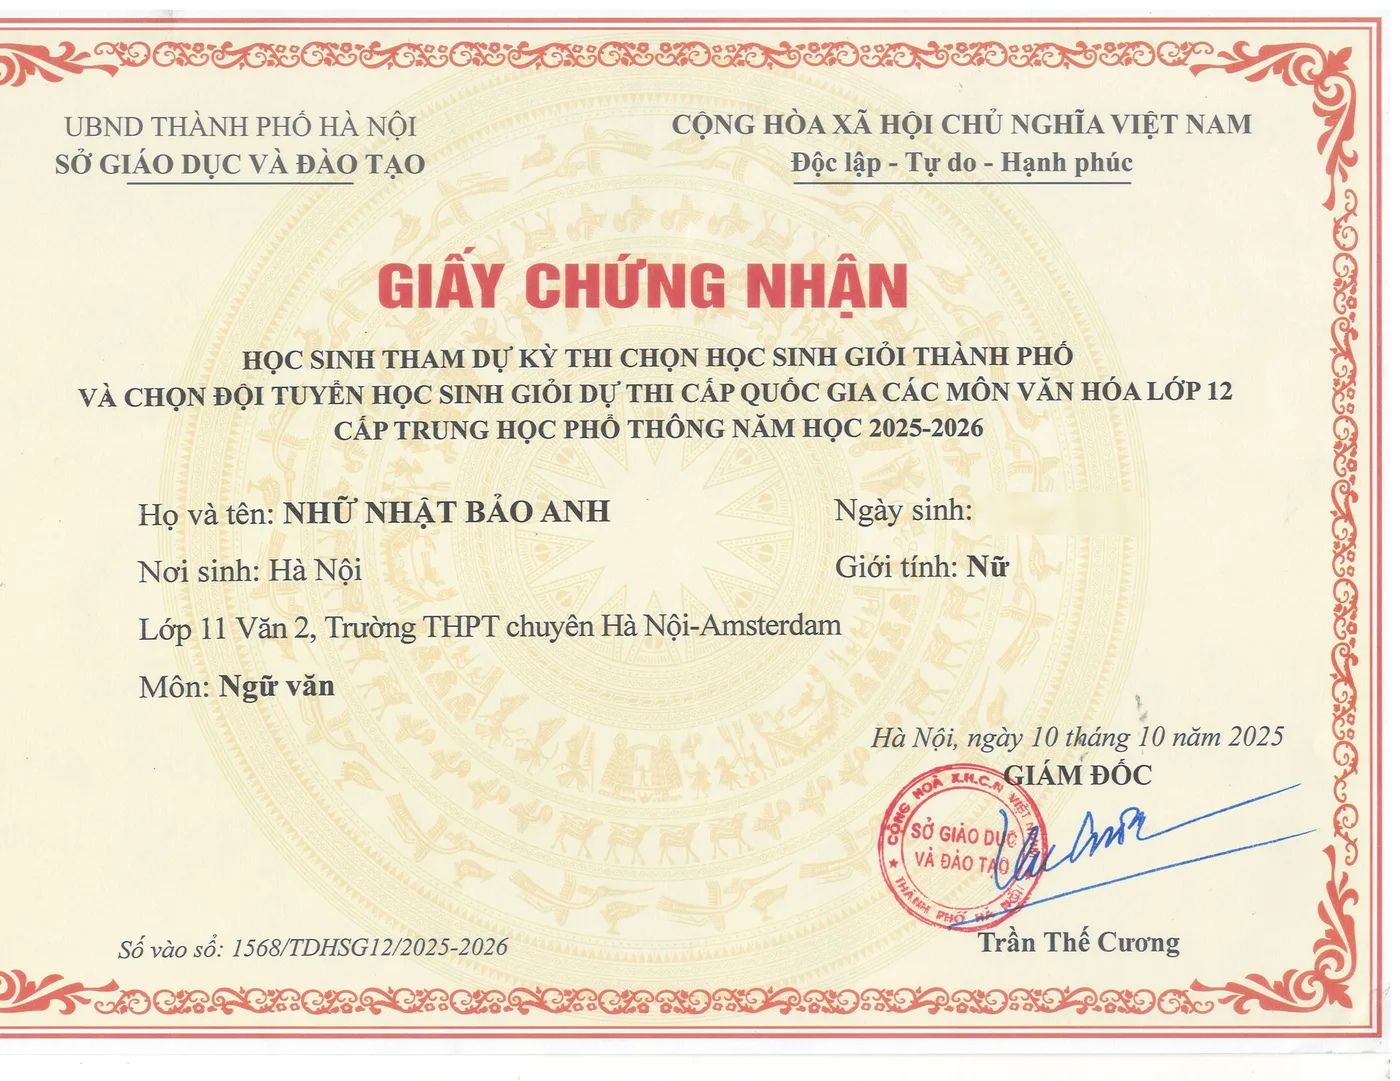
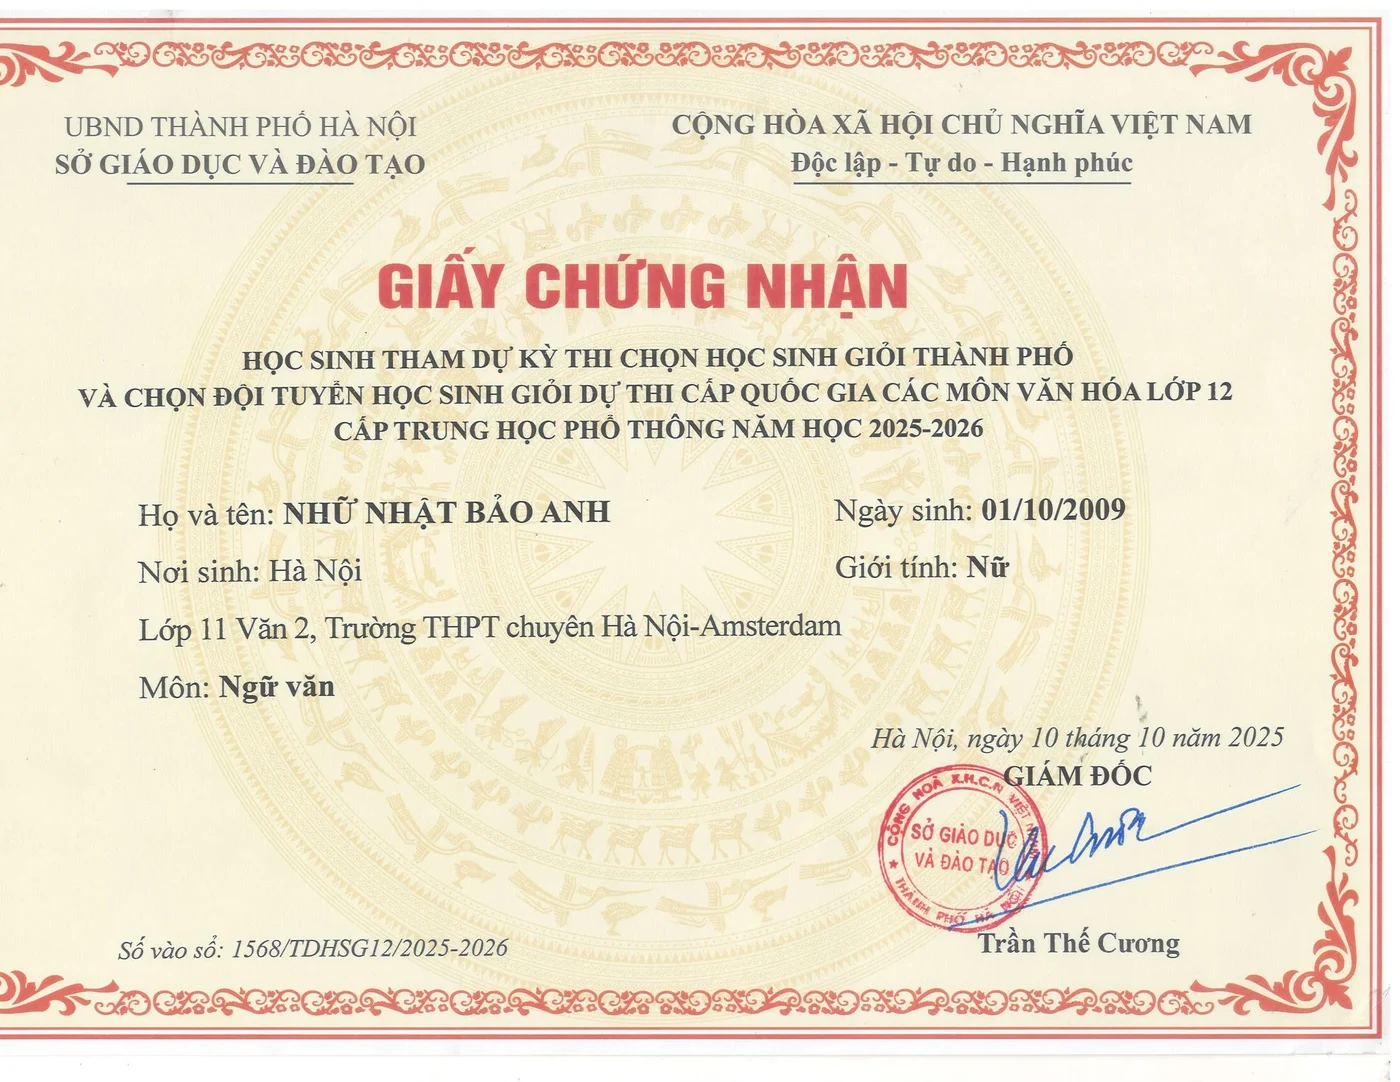
Render certificate and patent previews unredacted as issued

Changed region(s): [[0.6757, 0.4579, 0.7986, 0.4884]]

diff --git a/assets/js/content.js b/assets/js/content.js
@@ -135,8 +135,8 @@ window.CONTENT = {
             caption: "Bằng Độc quyền Giải pháp Hữu ích Số 4647 (Page 1)",
             img: "assets/img/certs/patent-4647-itutor.webp",
             width: 1400,
-            height: 1811,
-            alt: "Vietnamese Utility Solution Patent No. 4647 cover page for Remote Learning Support System (patent owner name and residential addresses redacted)"
+            height: 1812,
+            alt: "Vietnamese Utility Solution Patent No. 4647 cover page for Remote Learning Support System"
           },
           {
             certId: "patent-4647-annex",
@@ -146,8 +146,8 @@ window.CONTENT = {
             caption: "Lists 3. NHỮ NHẬT BẢO ANH (VN) among Patented Co-Authors",
             img: "assets/img/certs/patent-4647-authors-annex.webp",
             width: 1400,
-            height: 1049,
-            alt: "Official Danh sách kèm theo annex page of Vietnamese Utility Solution Patent No. 4647 listing Nhu Nhat Bao Anh among the authors (residential addresses redacted)"
+            height: 1051,
+            alt: "Official Danh sách kèm theo annex page of Vietnamese Utility Solution Patent No. 4647 listing Nhu Nhat Bao Anh among the authors"
           }
         ],
         recognitions: [
@@ -536,8 +536,8 @@ window.CONTENT = {
       year: "2025",
       img: "assets/img/certs/patent-4647-itutor.webp",
       width: 1400,
-      height: 1811,
-      alt: "Vietnamese Utility Solution Patent No. 4647 cover page for Remote Learning Support System (patent owner and residential addresses redacted)"
+      height: 1812,
+      alt: "Vietnamese Utility Solution Patent No. 4647 cover page for Remote Learning Support System"
     },
     {
       id: "patent-4647-annex",
@@ -548,8 +548,8 @@ window.CONTENT = {
       year: "2025",
       img: "assets/img/certs/patent-4647-authors-annex.webp",
       width: 1400,
-      height: 1049,
-      alt: "Official Danh sách kèm theo annex page of Vietnamese Utility Solution Patent No. 4647 listing Nhu Nhat Bao Anh among the authors (residential addresses redacted)"
+      height: 1051,
+      alt: "Official Danh sách kèm theo annex page of Vietnamese Utility Solution Patent No. 4647 listing Nhu Nhat Bao Anh among the authors"
     },
     {
       id: "cert-kide-2021-silver",
@@ -608,8 +608,8 @@ window.CONTENT = {
       year: "2025",
       img: "assets/img/certs/2025-hanoi-city-excellent-student.webp",
       width: 1400,
-      height: 1081,
-      alt: "Hanoi Department of Education and Training certificate of participation for Grade 12 City-Level Literature Examination (date of birth redacted)"
+      height: 1082,
+      alt: "Hanoi Department of Education and Training certificate of participation for Grade 12 City-Level Literature Examination"
     },
     {
       id: "cert-grade10-excellence",

diff --git a/index.html b/index.html
@@ -500,7 +500,7 @@
 
           <div class="colophon-imprint">
             <p>
-              <strong>Imprint:</strong> Set in <em>Fraunces</em>, <em>Inter Tight</em>, and <em>IBM Plex Mono</em>. Built with plain semantic HTML5, CSS custom properties, and vanilla JavaScript. Sensitive personal identifiers have been redacted in accordance with minor privacy guidelines.
+              <strong>Imprint:</strong> Set in <em>Fraunces</em>, <em>Inter Tight</em>, and <em>IBM Plex Mono</em>. Built with plain semantic HTML5, CSS custom properties, and vanilla JavaScript.
             </p>
           </div>
         </div>
